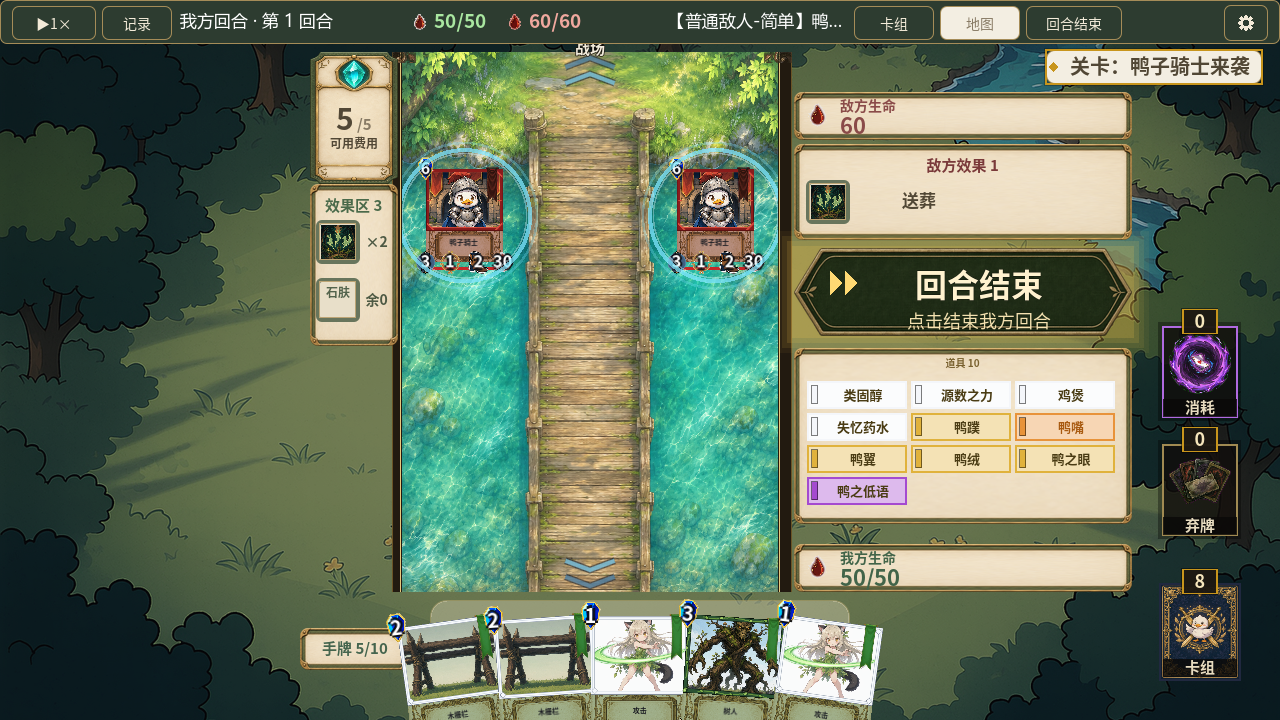
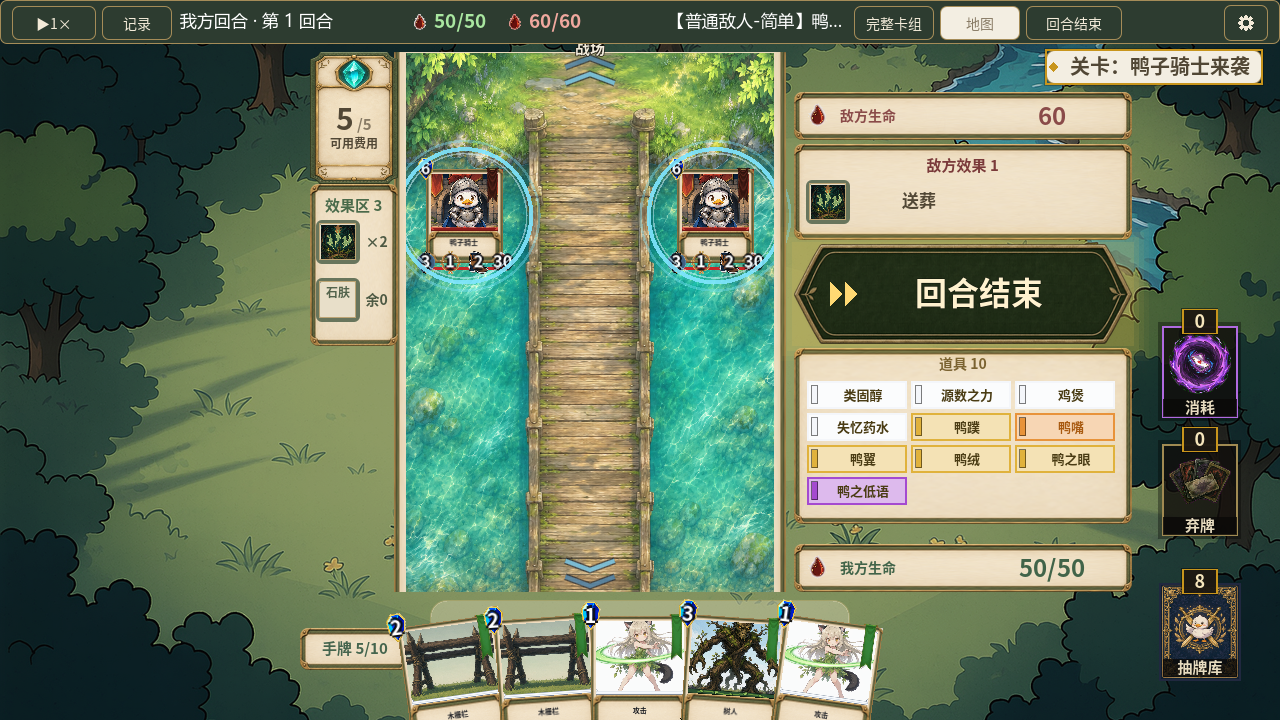
Apply concept materials to battlefield and cards; preserve distinct deck entry points

diff --git a/tools/prepare_battle_instrument.py b/tools/prepare_battle_instrument.py
@@ -5,3 +5,4 @@ root = Path(__file__).resolve().parents[1]
 image = Image.open(root / 'art_src/2026-11-04_battle_instruments/panel_source.png').convert('RGBA')
 bounds = image.getchannel('A').point(lambda a: 255 if a > 32 else 0).getbbox()
 image.crop(bounds).resize((128, 128), Image.Resampling.LANCZOS).save(root / 'assets/ui/adventure_shared/battle_instrument_panel.png')
+image.crop(bounds).resize((64, 64), Image.Resampling.LANCZOS).save(root / 'assets/ui/adventure_shared/battle_card_trim.png')

diff --git a/art_src/2026-11-04_battle_instruments/README.md b/art_src/2026-11-04_battle_instruments/README.md
@@ -1,4 +1,14 @@
-# 战斗仪表材质：暂停中的实现与概念图
+# 战斗仪表材质与概念图落地
+
+## 最新：用户已确认按概念图继续（2026-11-04）
+
+战场外框改为素材九宫格边缘，随棋盘滚动且不覆盖地形；战斗卡牌（手牌/场上/战斗内浏览）接入浅纸底、黄铜绿边和姓名牌，保留原卡图、归属框、稀有度缎带、数值与附魔徽标。`CardFace.draw` 新增末尾可选 `adventure_frame`，其他页面默认不变。
+
+`battle_card_trim.png` 为已有生成面板的64px派生，脚本可复现，无额外图片生成。场外遮罩降低至0.16。回合按钮只显示“回合结束”，增高至100px；生命信息单行。
+
+上方按钮明确命名“完整卡组”（RunState完整构筑，含附魔）；右下命名“抽牌库”（engine.state.deck剩余牌，不显示抽牌顺序）。`verify_battle_instruments.gd` 实际触发上方按钮信号和下方牌堆点击，分别断言4张完整卡组与1张剩余抽牌库，并保存 `full_deck.png` / `draw_pile.png`。`battle.png` / `overflow.png` 已更新为当前实现实机场景（注入道具作布局检查）。
+
+此前两项烟测已处理：按钮尺寸满足原断言；手牌检查改为同时判断横向与纵向相交，避免道具面板已在手牌上方仍因x相交而误报。下文保留历史暂停记录，以本节为准。
 
 2026-11-04 用户要求先看完整界面生成图，再决定是否继续。**暂停代码实现，不将本批称作完成版。**
 
@@ -11,3 +21,5 @@
 验证：`verify_battle_instruments.gd` 槽位换行、非重叠、溢出与控件互不相交通过。最后 `_verify.py`：engine5298/reward26/bgm39通过；smoke64通过/2失败（保留日志smoke.log）：满手右沿890.9与新道具区起点794的旧横向界限检查失败；结束按钮338×88未满足旧R391尺寸断言。用户要求暂停，未修复或改测试；后续应检查真实二维交叠及按钮布局后再处理，不能直接删断言。
 
 状态：仅保存可接手检查点，等待用户对concept.png反馈；不继续推进代码。
+
+最新验证：engine5298 / reward26 / bgm39 / smoke64，共5427项全部通过。旧smoke日志已替换为本轮通过记录。

diff --git a/HANDOFF.md b/HANDOFF.md
@@ -1,5 +1,9 @@
 # UI 改造交接（2026-11-03）
 
+## 最新进度：2026-11-04 概念图确认后落地
+
+用户已要求按概念图修改战场/卡框。已替换战场素材外框、战斗内卡牌材质和姓名牌；保留现有卡图/数值/稀有度/附魔。战场格子和滚动逻辑保持。结束按钮无副文案、HP单行、无敌方手牌；上方明确“完整卡组”，右下明确“抽牌库”。真实入口验证分别打开4张构筑和1张剩余牌，详见 `art_src/2026-11-04_battle_instruments/README.md` 和对应截图。先前暂停状态已结束，以此节为准。
+
 ## 最新：2026-11-04 战斗 UI
 
 后续微调：效果图 34×34、粗框44×44；×N/余N 移至右侧、无底色，双方共用。原点击/悬停仍按整行命中，浏览大卡角标未改。真实场景截图与验证见 `art_src/2026-11-04_effect_strip/`，复现脚本 `tools/verify_effect_strip.gd`。
